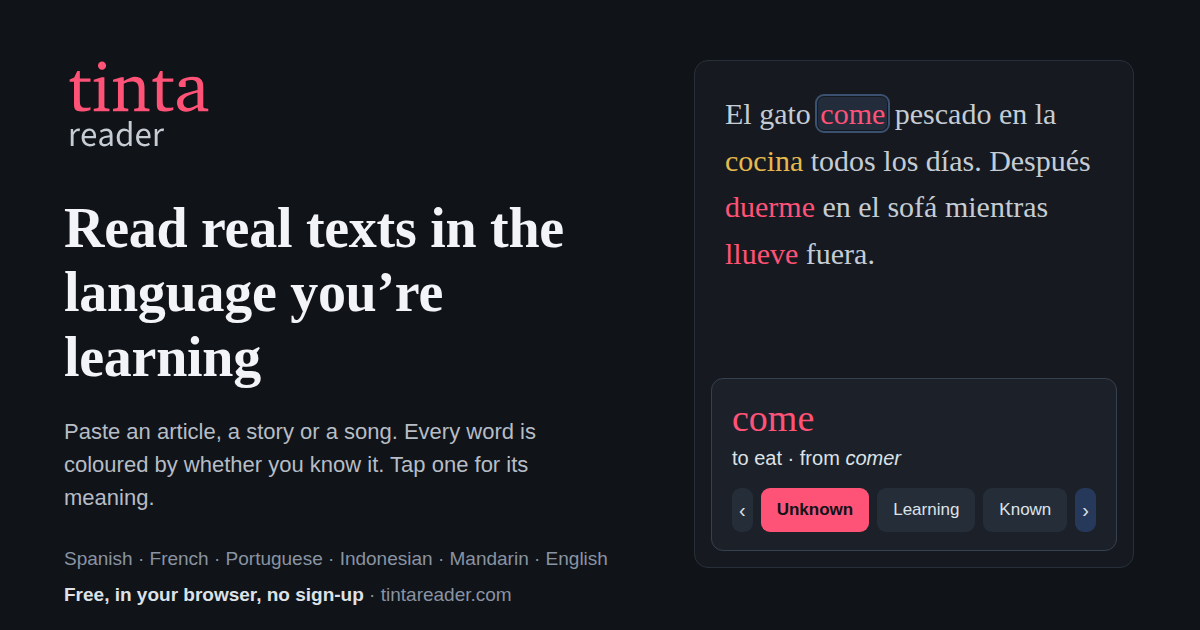
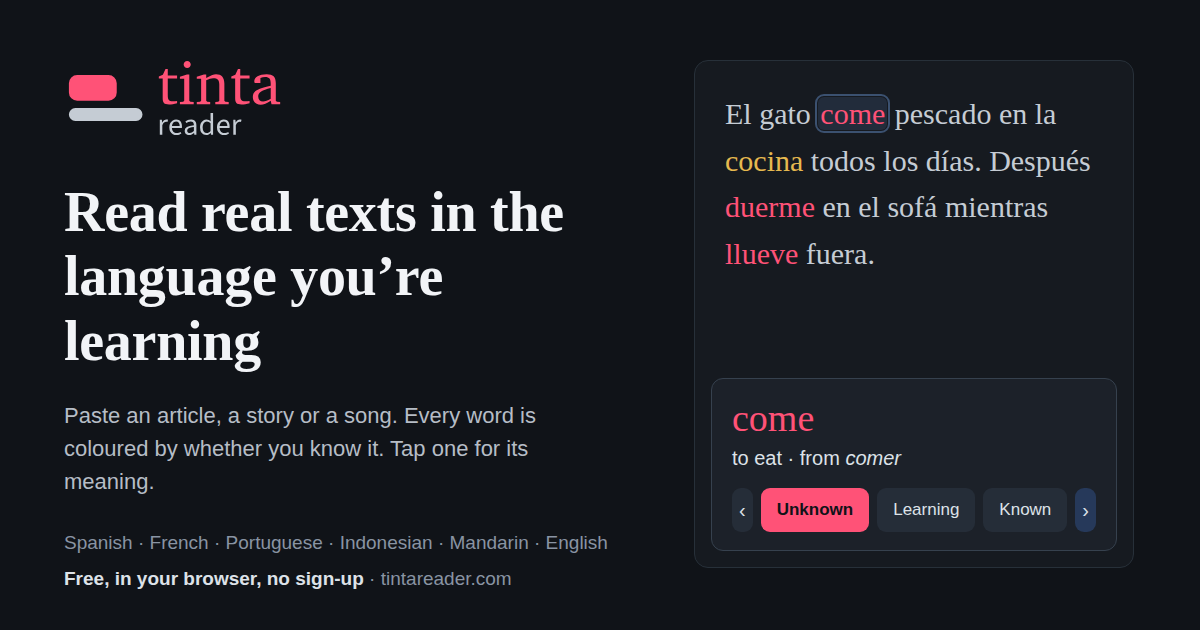
Site: the link preview carries the lockup, as the card guide has it
og.png and its source now show the mark beside the card, not the card
alone, matching the guide's rule that the lockup goes where the name is
first met. The rollout note says so.

Claude-Session: https://claude.ai/code/session_018GNwHQYW1kSfWcJHRhjqTP

Changed region(s): [[0.0308, 0.3016, 0.4933, 0.8143], [0.0308, 0.8444, 0.5242, 0.9651], [0.0308, 0.0905, 0.2467, 0.2413]]

diff --git a/brand/logo-card/og-card.html b/brand/logo-card/og-card.html
@@ -3,7 +3,7 @@
   body { width: 1200px; height: 630px; font-family: "Liberation Sans", Helvetica, Arial, sans-serif; color: #dde2e8; position: relative; overflow: hidden; }
   .left { position: absolute; left: 64px; top: 56px; width: 560px; }
   .left svg { display: block; }
-  h1 { font: 700 56px/1.15 "Bitstream Charter", Charter, Georgia, serif; color: #f2f4f7; margin: 44px 0 26px; letter-spacing: -0.005em; }
+  h1 { font: 700 56px/1.15 "Bitstream Charter", Charter, Georgia, serif; color: #f2f4f7; margin: 40px 0 26px; letter-spacing: -0.005em; }
   p { margin: 0; }
   .body { font-size: 22px; line-height: 1.5; color: #b6bdc6; }
   .langs { margin-top: 34px; font-size: 19px; color: #8994a3; }
@@ -22,12 +22,13 @@
   .btn.next { background: #26395a; color: #dde2e8; }
 </style></head><body>
   <div class="left">
-    <svg xmlns="http://www.w3.org/2000/svg" viewBox="0 0 213.9 137.0" height="96">
-<title>Tinta Reader</title><g transform="translate(5.50 78.80)">
+    <svg xmlns="http://www.w3.org/2000/svg" viewBox="0 0 360.6 137.0" height="84">
+<title>Tinta Reader</title><g transform="translate(8 30.99) scale(3.0008) translate(-12 -19)"><path fill="#ff5277" d="M16.5 19h17a4.5 4.5 0 0 1 4.5 4.5v5a4.5 4.5 0 0 1 -4.5 4.5h-17a4.5 4.5 0 0 1 -4.5 -4.5v-5a4.5 4.5 0 0 1 4.5 -4.5z"/><path fill="#c5ccd4" d="M15.5 37h33a3.5 3.5 0 0 1 3.5 3.5v0a3.5 3.5 0 0 1 -3.5 3.5h-33a3.5 3.5 0 0 1 -3.5 -3.5v-0a3.5 3.5 0 0 1 3.5 -3.5z"/></g><g transform="translate(152.15 78.80)">
   <path fill="#ff5277" transform="scale(0.1)" d="M88.0 -421.0V-98.0C88.0 -27.0 109.0 3.0 192.0 3.0C231.0 3.0 276.0 -4.0 323.0 -19.0V-56.0C300.0 -51.0 277.0 -48.0 254.0 -48.0C184.0 -48.0 171.0 -81.0 171.0 -157.0V-421.0H323.0V-468.0H171.0V-574.0H134.0L91.0 -481.0L25.0 -452.0V-421.0ZM488.0 -708.0C456.0 -708.0 430.0 -683.0 430.0 -650.0C430.0 -618.0 456.0 -593.0 488.0 -593.0C520.0 -593.0 546.0 -618.0 546.0 -650.0C546.0 -682.0 520.0 -708.0 488.0 -708.0ZM484.0 -486.0 369.0 -450.0V-419.0H439.0V-57.0L422.0 -41.0L369.0 -36.0V0.0H594.0V-36.0L540.0 -41.0L522.0 -57.0V-486.0ZM644.0 0.0H863.0V-36.0L815.0 -41.0L798.0 -57.0V-392.0C841.0 -414.0 878.0 -425.0 910.0 -425.0C984.0 -425.0 1011.0 -395.0 1011.0 -322.0V-57.0L994.0 -41.0L946.0 -36.0V0.0H1165.0V-36.0L1111.0 -41.0L1094.0 -57.0V-339.0C1094.0 -439.0 1046.0 -491.0 959.0 -491.0C916.0 -491.0 865.0 -468.0 798.0 -431.0V-486.0H760.0L644.0 -450.0V-419.0H715.0V-57.0L698.0 -41.0L644.0 -36.0ZM1270.0 -421.0V-98.0C1270.0 -27.0 1291.0 3.0 1374.0 3.0C1413.0 3.0 1458.0 -4.0 1505.0 -19.0V-56.0C1482.0 -51.0 1459.0 -48.0 1436.0 -48.0C1366.0 -48.0 1353.0 -81.0 1353.0 -157.0V-421.0H1505.0V-468.0H1353.0V-574.0H1316.0L1273.0 -481.0L1207.0 -452.0V-421.0ZM1850.0 -58.0 1863.0 0.0H2004.0V-36.0L1951.0 -41.0L1933.0 -57.0V-347.0C1933.0 -448.0 1889.0 -491.0 1784.0 -491.0C1658.0 -491.0 1582.0 -439.0 1582.0 -378.0C1582.0 -354.0 1590.0 -347.0 1613.0 -347.0H1682.0V-431.0C1709.0 -442.0 1733.0 -447.0 1758.0 -447.0C1830.0 -447.0 1850.0 -414.0 1850.0 -335.0V-303.0C1650.0 -255.0 1558.0 -225.0 1558.0 -121.0C1558.0 -46.0 1607.0 7.0 1686.0 7.0C1734.0 7.0 1787.0 -15.0 1850.0 -58.0ZM1850.0 -92.0C1800.0 -63.0 1759.0 -47.0 1726.0 -47.0C1676.0 -47.0 1646.0 -80.0 1646.0 -129.0C1646.0 -202.0 1709.0 -229.0 1850.0 -268.0Z"/>
   <path fill="#c5ccd4" transform="translate(0 49.60) scale(0.05)" d="M82.0 0.0V-486.0H150.0L157.0 -398.0H160.0Q184.0 -444.0 220.0 -471.0Q256.0 -498.0 298.0 -498.0Q314.0 -498.0 326.0 -496.0Q338.0 -494.0 350.0 -488.0L332.0 -418.0Q321.0 -421.0 311.5 -422.5Q302.0 -424.0 287.0 -424.0Q256.0 -424.0 222.5 -399.0Q189.0 -374.0 164.0 -312.0V0.0ZM626.0 12.0Q561.0 12.0 507.5 -18.5Q454.0 -49.0 423.0 -105.5Q392.0 -162.0 392.0 -243.0Q392.0 -322.0 424.0 -379.0Q456.0 -436.0 506.0 -467.0Q556.0 -498.0 612.0 -498.0Q674.0 -498.0 717.5 -469.5Q761.0 -441.0 783.0 -390.0Q805.0 -339.0 805.0 -270.0Q805.0 -257.0 804.5 -245.0Q804.0 -233.0 801.0 -221.0H451.0V-286.0H731.0Q731.0 -356.0 700.5 -393.5Q670.0 -431.0 613.0 -431.0Q580.0 -431.0 548.0 -412.5Q516.0 -394.0 495.5 -353.0Q475.0 -312.0 475.0 -244.0Q475.0 -182.0 496.5 -140.0Q518.0 -98.0 555.0 -76.5Q592.0 -55.0 636.0 -55.0Q671.0 -55.0 701.5 -65.0Q732.0 -75.0 757.0 -92.0L787.0 -38.0Q755.0 -16.0 715.5 -2.0Q676.0 12.0 626.0 12.0ZM1037.0 12.0Q997.0 12.0 964.5 -4.5Q932.0 -21.0 913.0 -51.5Q894.0 -82.0 894.0 -126.0Q894.0 -208.0 966.0 -250.0Q1038.0 -292.0 1194.0 -309.0Q1193.0 -339.0 1184.5 -367.0Q1176.0 -395.0 1154.0 -412.0Q1132.0 -429.0 1093.0 -429.0Q1051.0 -429.0 1014.0 -413.5Q977.0 -398.0 948.0 -379.0L916.0 -435.0Q938.0 -450.0 968.0 -464.5Q998.0 -479.0 1033.0 -488.5Q1068.0 -498.0 1107.0 -498.0Q1166.0 -498.0 1203.5 -473.5Q1241.0 -449.0 1258.5 -404.0Q1276.0 -359.0 1276.0 -298.0V0.0H1208.0L1201.0 -58.0H1198.0Q1163.0 -29.0 1123.0 -8.5Q1083.0 12.0 1037.0 12.0ZM1060.0 -56.0Q1096.0 -56.0 1127.5 -72.0Q1159.0 -88.0 1194.0 -119.0V-250.0Q1112.0 -240.0 1064.5 -224.5Q1017.0 -209.0 996.0 -186.0Q975.0 -163.0 975.0 -131.0Q975.0 -91.0 1000.0 -73.5Q1025.0 -56.0 1060.0 -56.0ZM1595.0 12.0Q1503.0 12.0 1448.5 -54.5Q1394.0 -121.0 1394.0 -242.0Q1394.0 -321.0 1423.5 -378.5Q1453.0 -436.0 1501.0 -467.0Q1549.0 -498.0 1605.0 -498.0Q1648.0 -498.0 1678.5 -483.5Q1709.0 -469.0 1741.0 -442.0L1737.0 -525.0V-712.0H1820.0V0.0H1752.0L1745.0 -57.0H1742.0Q1714.0 -29.0 1676.0 -8.5Q1638.0 12.0 1595.0 12.0ZM1613.0 -57.0Q1647.0 -57.0 1677.0 -74.0Q1707.0 -91.0 1737.0 -124.0V-378.0Q1707.0 -406.0 1678.0 -417.5Q1649.0 -429.0 1619.0 -429.0Q1580.0 -429.0 1548.5 -405.5Q1517.0 -382.0 1498.0 -340.5Q1479.0 -299.0 1479.0 -243.0Q1479.0 -156.0 1514.0 -106.5Q1549.0 -57.0 1613.0 -57.0ZM2181.0 12.0Q2116.0 12.0 2062.5 -18.5Q2009.0 -49.0 1978.0 -105.5Q1947.0 -162.0 1947.0 -243.0Q1947.0 -322.0 1979.0 -379.0Q2011.0 -436.0 2061.0 -467.0Q2111.0 -498.0 2167.0 -498.0Q2229.0 -498.0 2272.5 -469.5Q2316.0 -441.0 2338.0 -390.0Q2360.0 -339.0 2360.0 -270.0Q2360.0 -257.0 2359.5 -245.0Q2359.0 -233.0 2356.0 -221.0H2006.0V-286.0H2286.0Q2286.0 -356.0 2255.5 -393.5Q2225.0 -431.0 2168.0 -431.0Q2135.0 -431.0 2103.0 -412.5Q2071.0 -394.0 2050.5 -353.0Q2030.0 -312.0 2030.0 -244.0Q2030.0 -182.0 2051.5 -140.0Q2073.0 -98.0 2110.0 -76.5Q2147.0 -55.0 2191.0 -55.0Q2226.0 -55.0 2256.5 -65.0Q2287.0 -75.0 2312.0 -92.0L2342.0 -38.0Q2310.0 -16.0 2270.5 -2.0Q2231.0 12.0 2181.0 12.0ZM2480.0 0.0V-486.0H2548.0L2555.0 -398.0H2558.0Q2582.0 -444.0 2618.0 -471.0Q2654.0 -498.0 2696.0 -498.0Q2712.0 -498.0 2724.0 -496.0Q2736.0 -494.0 2748.0 -488.0L2730.0 -418.0Q2719.0 -421.0 2709.5 -422.5Q2700.0 -424.0 2685.0 -424.0Q2654.0 -424.0 2620.5 -399.0Q2587.0 -374.0 2562.0 -312.0V0.0Z"/>
 </g>
 </svg>
+
 
     <h1>Read real texts in the language you’re learning</h1>
     <p class="body">Paste an article, a story or a song. Every word is coloured by whether you know it. Tap one for its meaning.</p>

diff --git a/brand/logo-card/README.md b/brand/logo-card/README.md
@@ -32,7 +32,7 @@ carries the commit:
 | `icons/icon-192.png`, `icons/icon-512.png` | The mark on the light ground in the superellipse, as before |
 | `icons/maskable-512.png` | Full-bleed ground, the mark inside the safe circle |
 | `icons/apple-touch-icon.png` | Full-bleed ground, 180 px |
-| `og.png` | The link preview, `og-card.html` here rendered by `render-og.cjs`, with the wordmark in place of the old bars and "Tinta"; copy and layout unchanged |
+| `og.png` | The link preview, `og-card.html` here rendered by `render-og.cjs`, with the lockup (mark beside the card) in place of the old bars and "Tinta", as the guide has it; copy and layout unchanged |
 | `404.html` | Its picture is now `/icons/icon-192.png`, since a bare scheme-following mark disappears on that page's fixed dark ground |
 
 The service worker serves icons network-first, so no version bump was
